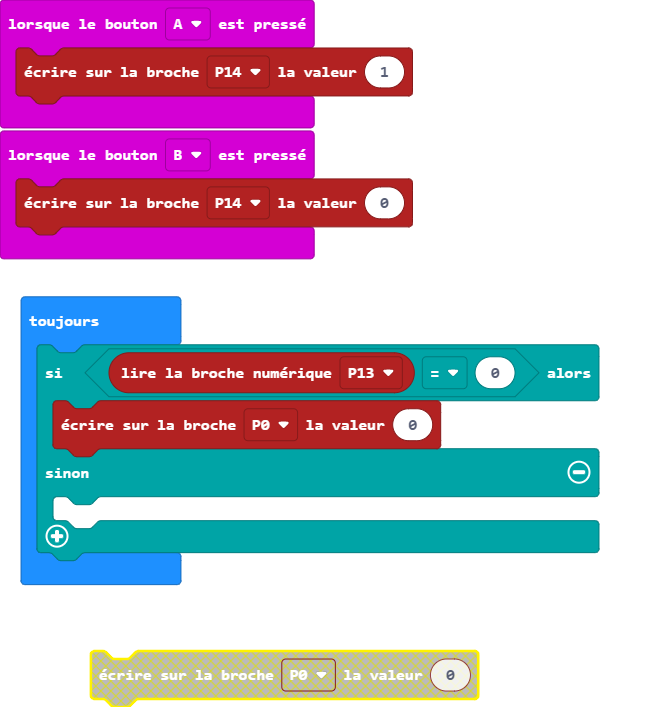
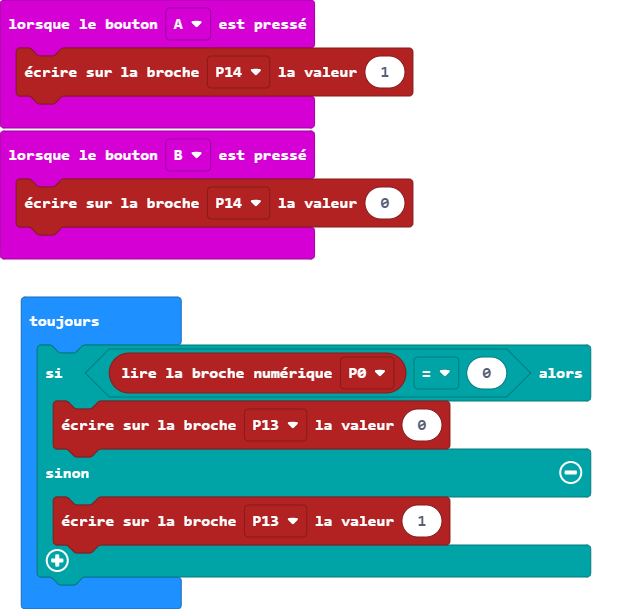
Mise à jour main.blocks, main.ts

diff --git a/main.ts b/main.ts
@@ -5,9 +5,9 @@ input.onButtonPressed(Button.B, function () {
     pins.digitalWritePin(DigitalPin.P14, 0)
 })
 basic.forever(function () {
-    if (pins.digitalReadPin(DigitalPin.P13) == 0) {
-        pins.digitalWritePin(DigitalPin.P0, 0)
+    if (pins.digitalReadPin(DigitalPin.P0) == 0) {
+        pins.digitalWritePin(DigitalPin.P13, 0)
     } else {
-    	
+        pins.digitalWritePin(DigitalPin.P13, 1)
     }
 })
